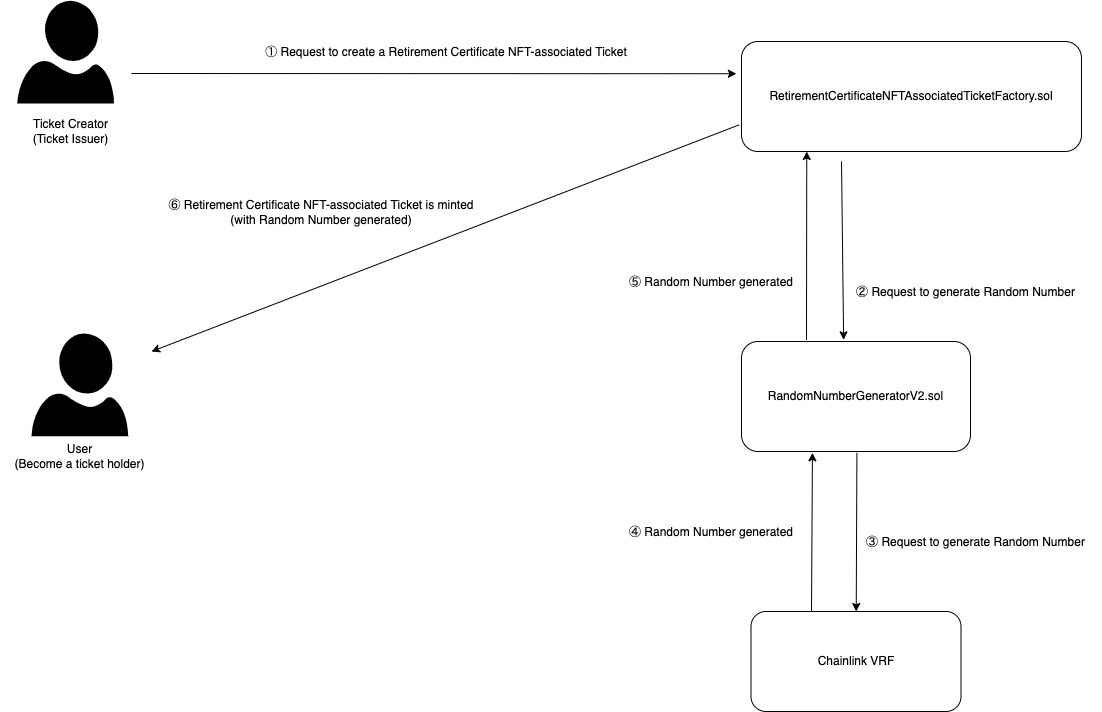
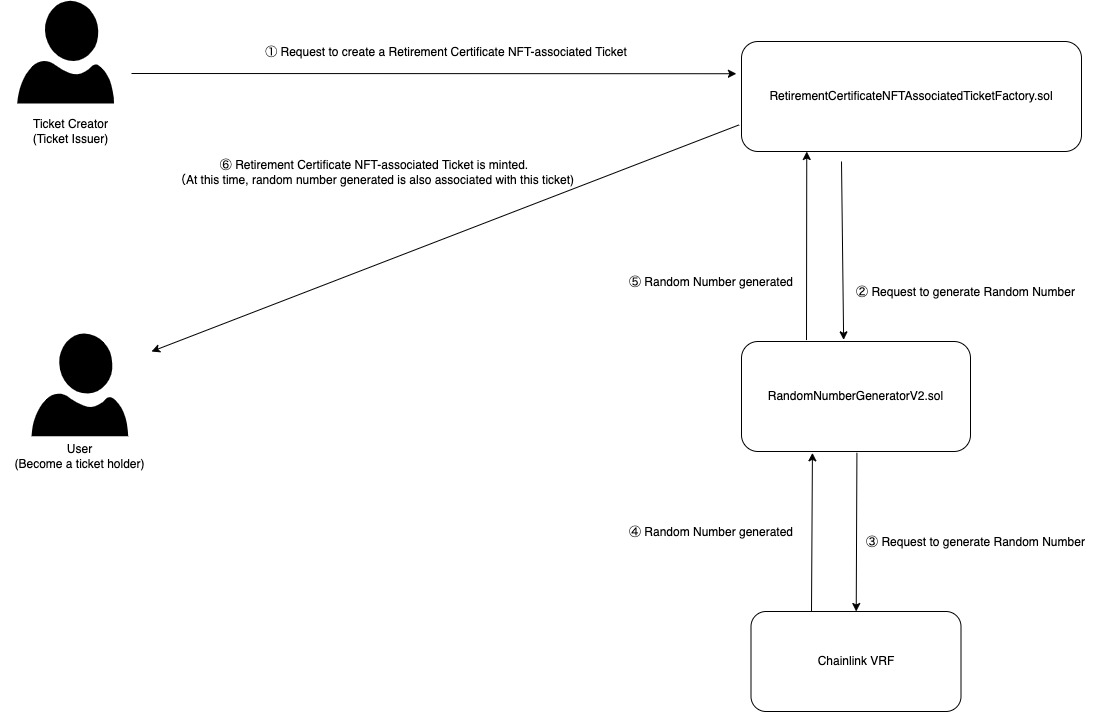
[Diagram]: Workflow of diagram

Changed region(s): [[0.1543, 0.2163, 0.5245, 0.3399]]

diff --git a/test/ethersjs-helper/ethersjsHelper.ts b/test/ethersjs-helper/ethersjsHelper.ts
@@ -1,5 +1,6 @@
 import { expect } from "chai"
 import { ethers } from "hardhat"
+import { BigNumber, ContractReceipt, ContractTransaction } from "ethers"
 
 
 function convertHexToString(hex: string) {

diff --git a/README.md b/README.md
@@ -37,7 +37,7 @@
 
 ### Workflow
 - Diagram of workflow
-  ![diagram_Retirement-Certificate-NFT-associated-Ticket](https://user-images.githubusercontent.com/19357502/178473379-4742aedf-09f4-496e-8121-cbef10c326ed.jpeg)
+  ![diagram_retirement-certificate-NFT-associated-ticket](https://user-images.githubusercontent.com/19357502/178716431-e1281060-87f3-492c-87d3-14d450b4c3fe.jpeg)
 
 
 
